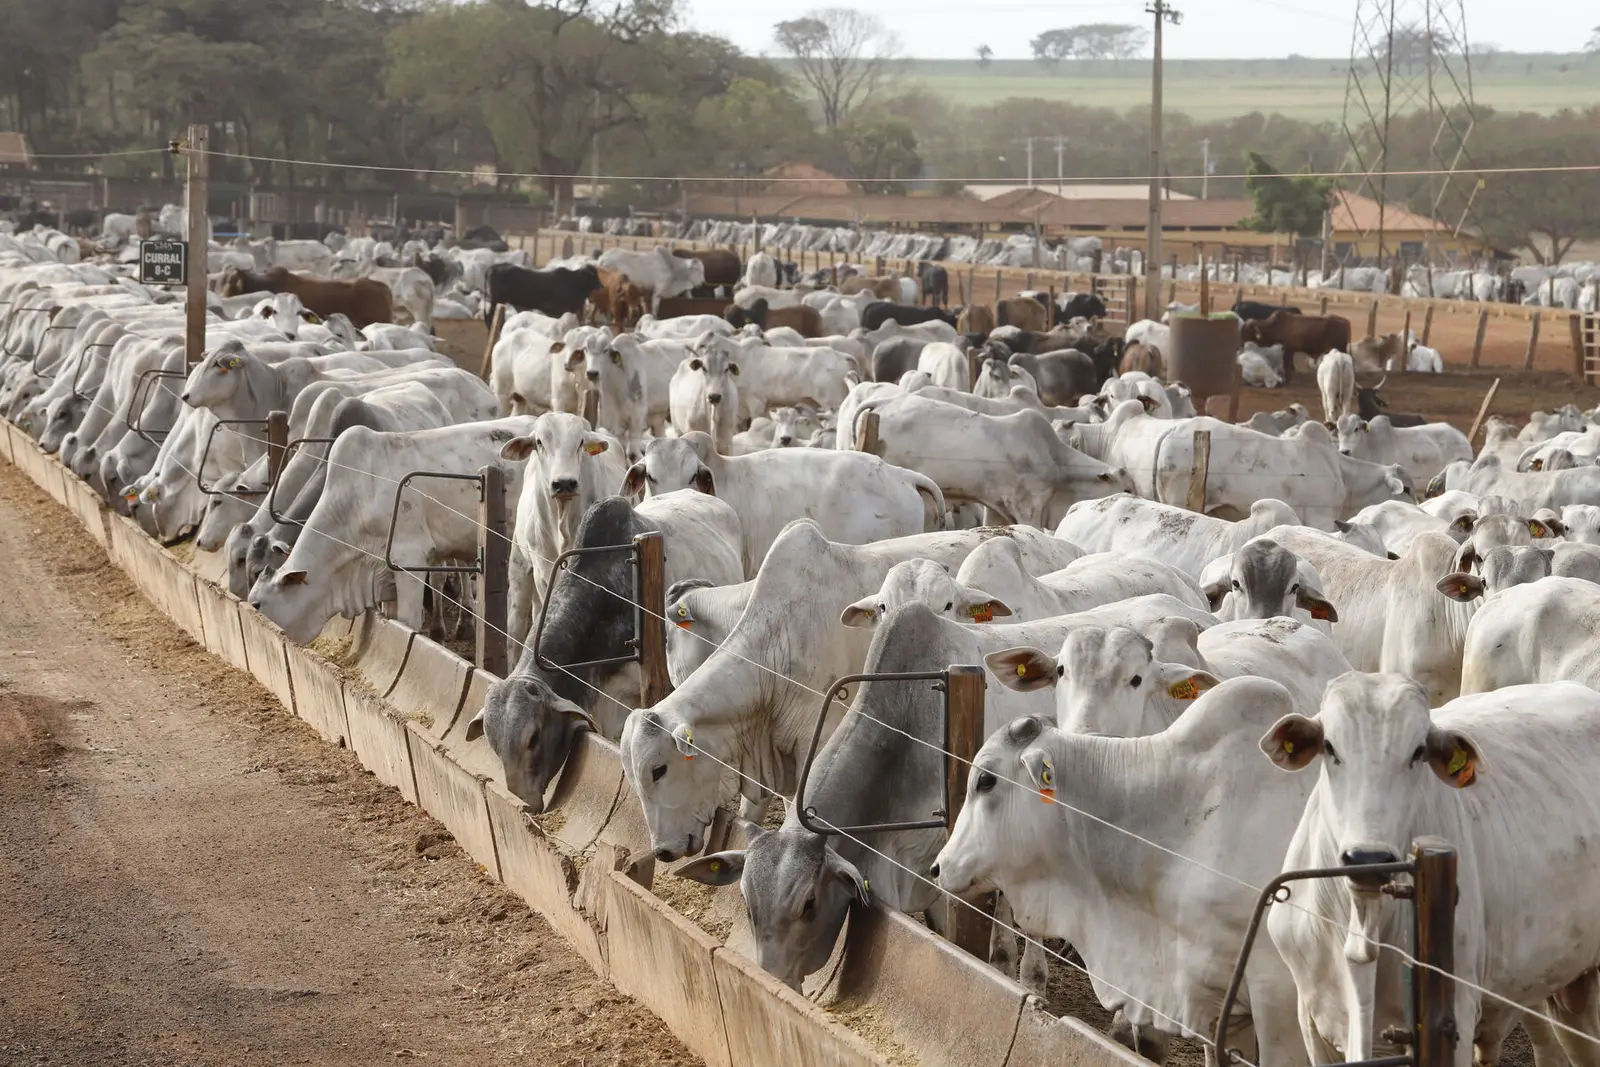
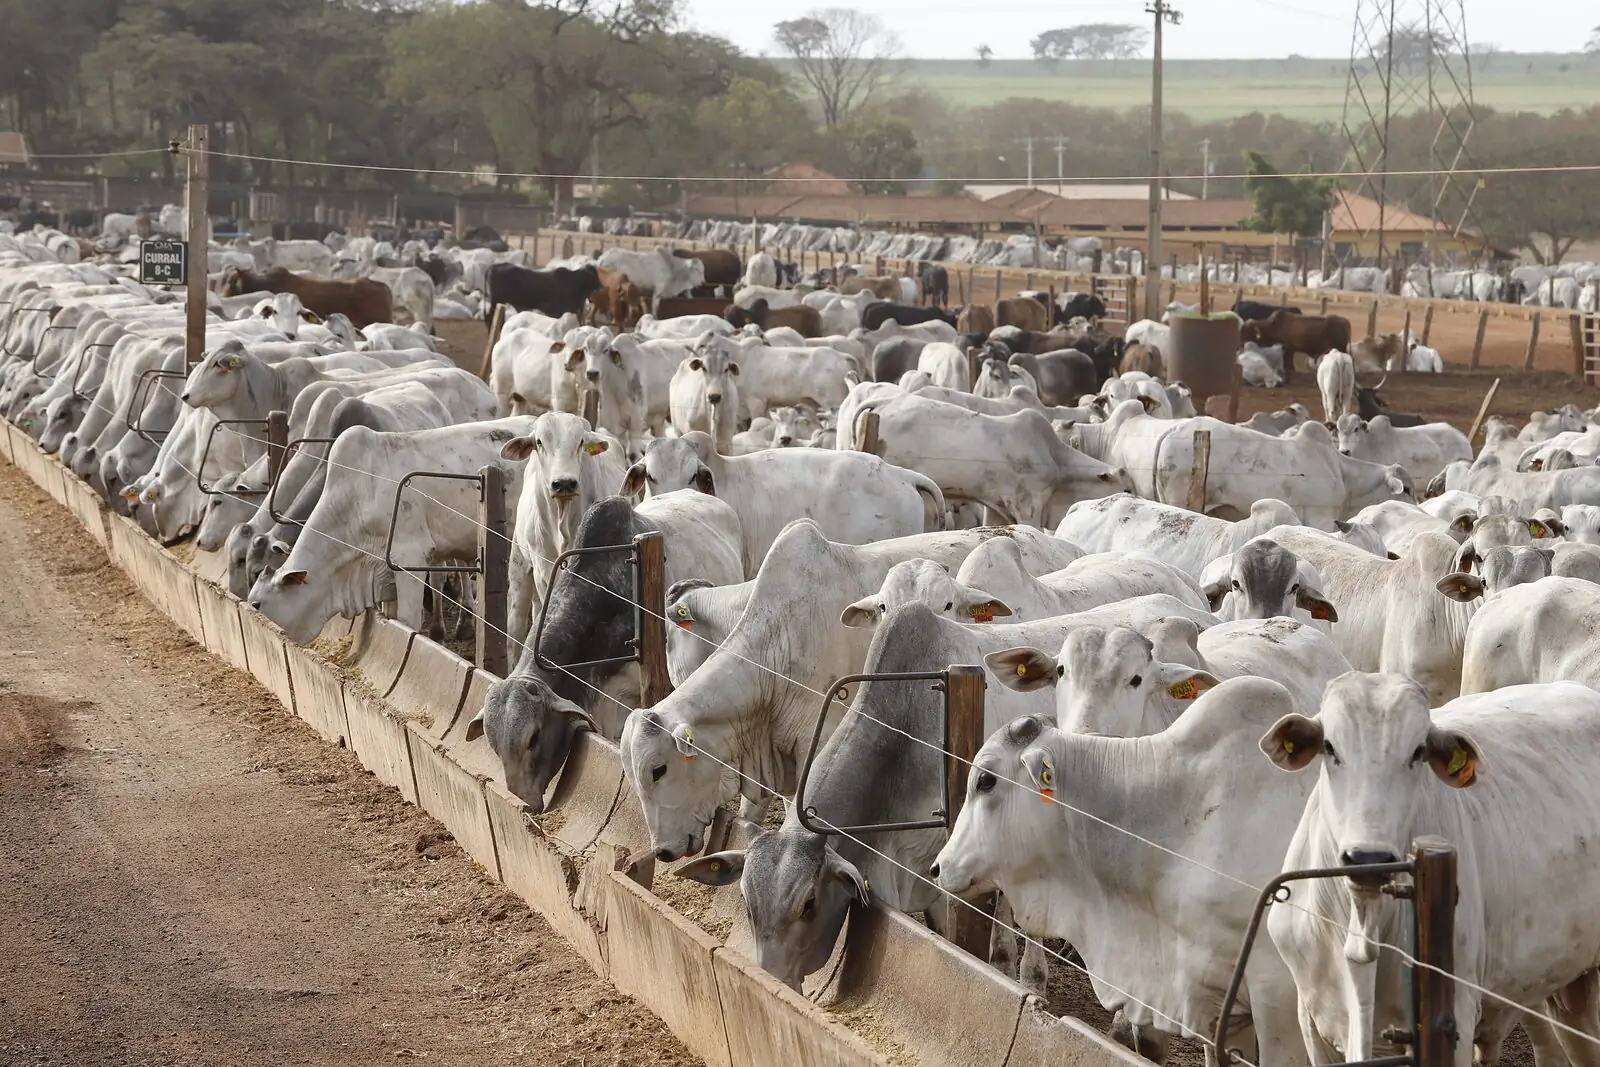
Linha do tempo, revisao de conteudo e otimizacao de imagens

diff --git a/index.html b/index.html
@@ -52,7 +52,7 @@
   </div>
 
   <div class="hs-slide">
-    <div class="fundo" ><picture><source type="image/webp" data-srcset="assets/img/cocho-nelore-linha-480.webp 480w, assets/img/cocho-nelore-linha-960.webp 960w, assets/img/cocho-nelore-linha-1600.webp 1600w" sizes="100vw"><img data-src="assets/img/cocho-nelore-linha.jpg" alt="" aria-hidden="true" width="960" height="640" loading="lazy" decoding="async"></picture></div>
+    <div class="fundo" ><picture><source type="image/webp" data-srcset="assets/img/cocho-nelore-linha-480.webp 480w, assets/img/cocho-nelore-linha-960.webp 960w, assets/img/cocho-nelore-linha-1200.webp 1200w, assets/img/cocho-nelore-linha-1600.webp 1600w" sizes="100vw"><img data-src="assets/img/cocho-nelore-linha.jpg" alt="" aria-hidden="true" width="1200" height="800" loading="lazy" decoding="async"></picture></div>
     <div class="veu"></div>
     <div class="wrap hs-conteudo">
       <span class="eyebrow">Prova antes de adjetivo</span>
@@ -166,7 +166,7 @@
     </div>
     <div class="eng-grid">
       <a class="eng-card destaque reveal" href="caminho-do-boi.html">
-        <div class="eng-foto"><picture><source type="image/webp" srcset="assets/img/cocho-nelore-linha-480.webp 480w, assets/img/cocho-nelore-linha-960.webp 960w, assets/img/cocho-nelore-linha-1600.webp 1600w" sizes="(max-width:640px) 92vw, (max-width:960px) 46vw, 380px"><img class="ft" src="assets/img/cocho-nelore-linha.jpg" alt="Lote de Nelore ao cocho na CMA" loading="lazy" width="960" height="640" decoding="async"></picture><span class="assin-pill"><img src="assets/brand/unidade-confinamento-branca.svg" alt="CMA Confinamento"></span></div>
+        <div class="eng-foto"><picture><source media="(min-width:961px)" type="image/webp" srcset="assets/img/cocho-nelore-vertical-480.webp 480w, assets/img/cocho-nelore-vertical-960.webp 960w, assets/img/cocho-nelore-vertical-1200.webp 1200w" sizes="380px"><source type="image/webp" srcset="assets/img/cocho-nelore-linha-480.webp 480w, assets/img/cocho-nelore-linha-960.webp 960w, assets/img/cocho-nelore-linha-1200.webp 1200w, assets/img/cocho-nelore-linha-1600.webp 1600w" sizes="(max-width:640px) 92vw, (max-width:960px) 46vw, 380px"><img class="ft" src="assets/img/cocho-nelore-linha.jpg" alt="Lote de Nelore ao cocho na CMA" loading="lazy" width="1200" height="800" decoding="async"></picture><span class="assin-pill"><img src="assets/brand/unidade-confinamento-branca.svg" alt="CMA Confinamento"></span></div>
         <div class="eng-corpo"><h3>O coração do grupo</h3><p>Engorda em parceria, do brinco ao processamento. Giro de 90 a 110 dias, espaço generoso por cabeça e bem-estar certificado QIMA/WQS.</p><span class="eng-mais">O Caminho do Boi</span></div>
       </a>
       <a class="eng-card reveal d1" href="feno.html">

diff --git a/certificacoes.html b/certificacoes.html
@@ -38,7 +38,7 @@
 <main id="conteudo">
 
 <div class="hero-interna">
-  <div class="fundo" ><picture><source type="image/webp" srcset="assets/img/cocho-nelore-linha-480.webp 480w, assets/img/cocho-nelore-linha-960.webp 960w, assets/img/cocho-nelore-linha-1600.webp 1600w" sizes="100vw"><img src="assets/img/cocho-nelore-linha.jpg" alt="" aria-hidden="true" width="960" height="640" fetchpriority="high" decoding="async"></picture></div>
+  <div class="fundo" ><picture><source type="image/webp" srcset="assets/img/cocho-nelore-linha-480.webp 480w, assets/img/cocho-nelore-linha-960.webp 960w, assets/img/cocho-nelore-linha-1200.webp 1200w, assets/img/cocho-nelore-linha-1600.webp 1600w" sizes="100vw"><img src="assets/img/cocho-nelore-linha.jpg" alt="" aria-hidden="true" width="1200" height="800" fetchpriority="high" decoding="async"></picture></div>
   <div class="veu"></div>
   <div class="wrap">
     <div class="trilha"><a href="index.html">Início</a><span>·</span>O Grupo<span>·</span>Certificações &amp; Prêmios</div>
